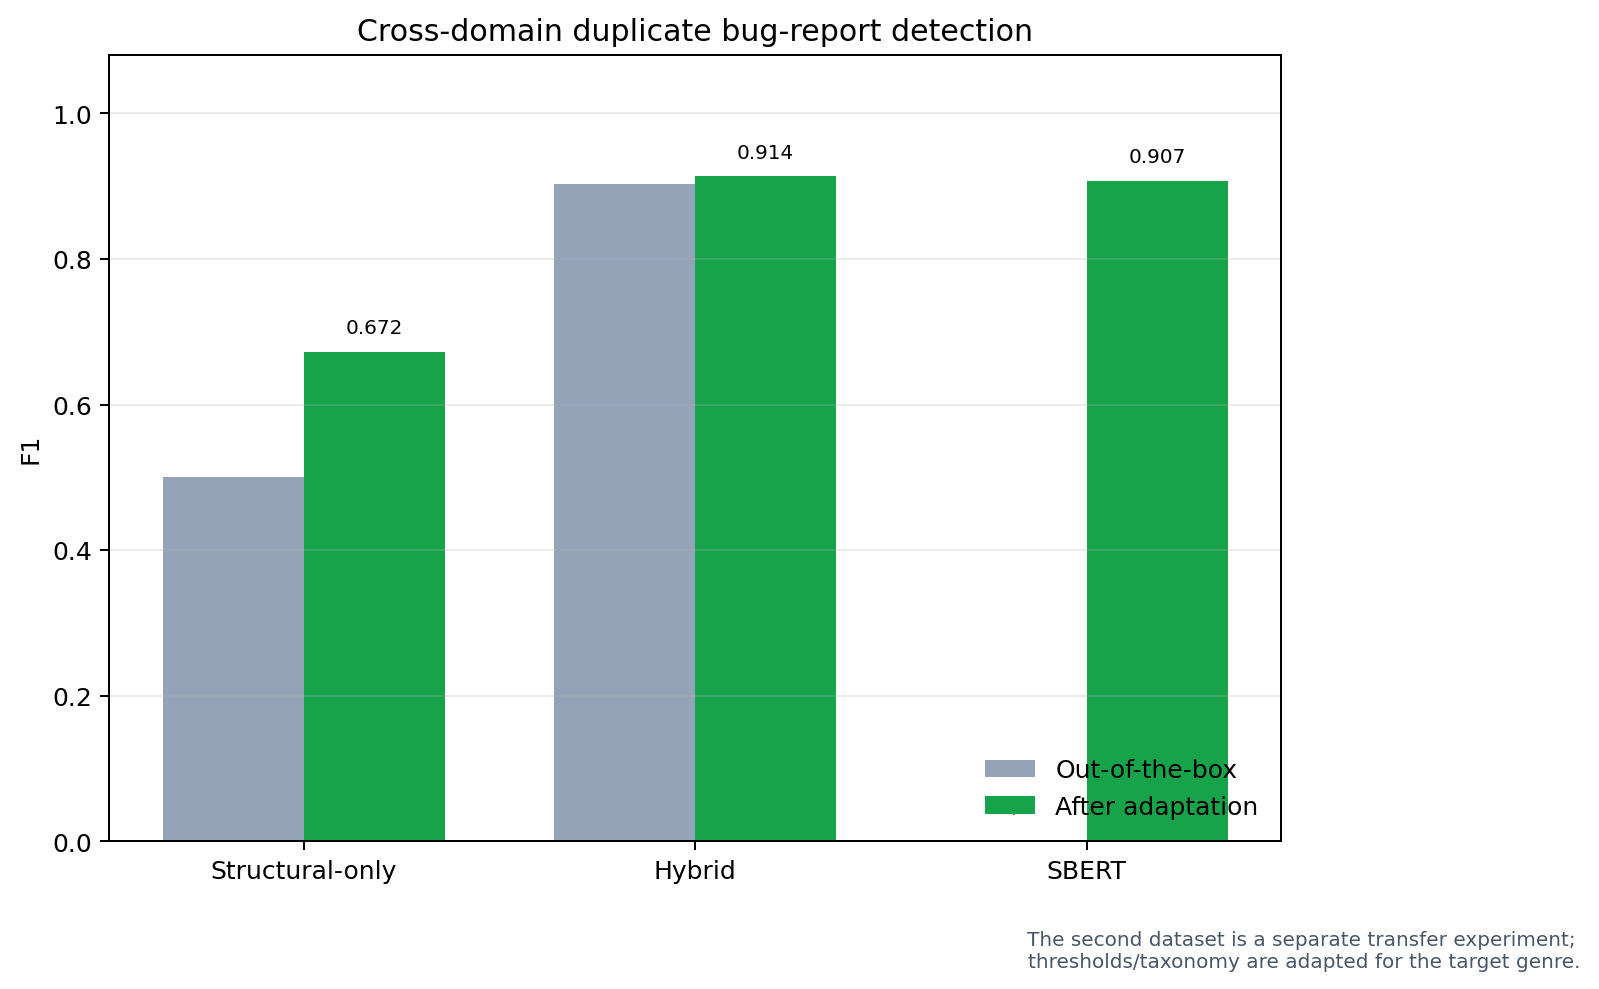
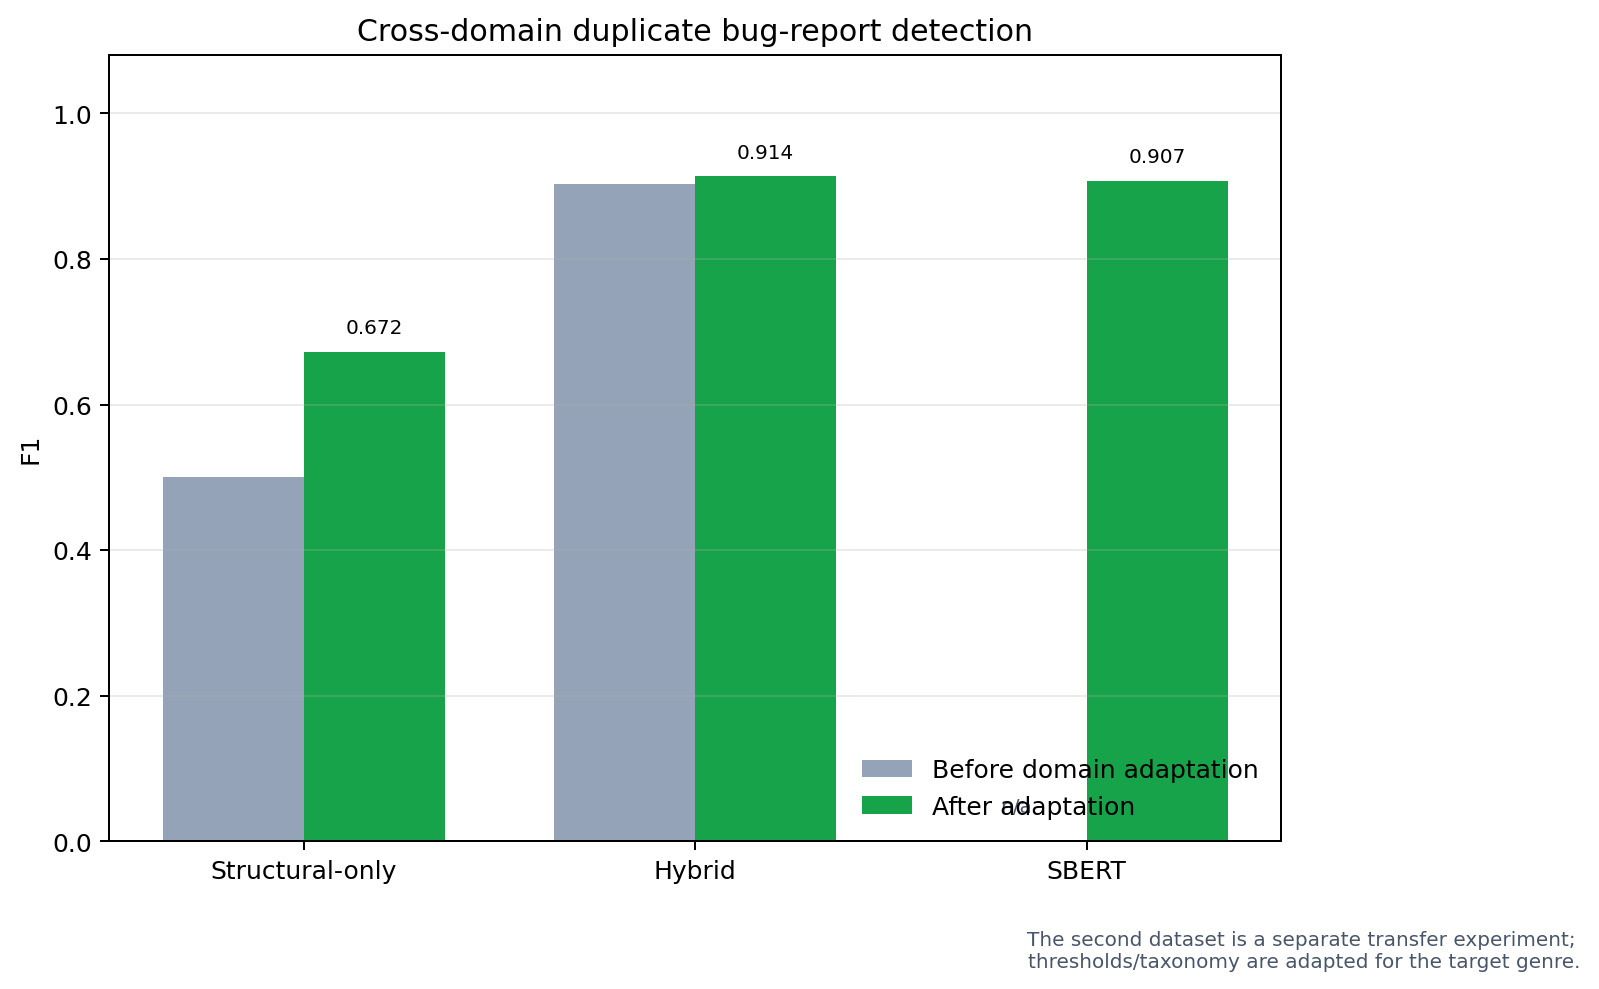
Clarify domain adaptation labels

Changed region(s): [[0.521, 0.7583, 0.7967, 0.8493]]

diff --git a/review-site/index.html b/review-site/index.html
@@ -65,7 +65,7 @@
     <section><div class="lang-en"><h2>Document-disjoint robustness audit</h2><p>A stricter GroupKFold audit prevents the same document identity from appearing in both training and test groups. SW-BTED obtains pooled F1 0.9157 (38 TP, 7 FP, 93 TN, 0 FN). This is a supplemental generalization check, not a replacement for the primary protocol.</p></div><div class="lang-vi"><h2>Document-disjoint robustness audit</h2><p>Audit GroupKFold nghiêm ngặt hơn, không cho cùng một document xuất hiện ở cả train và test. SW-BTED đạt pooled F1 0.9157 (38 TP, 7 FP, 93 TN, 0 FN). Đây là kiểm tra bổ sung về khả năng tổng quát hóa, không thay thế protocol chính.</p></div></section>
 
     <section><figure class="figure"><img src="assets/figure_6_document_disjoint_robustness.png" alt="Document-disjoint robustness comparison"><figcaption>Document-disjoint robustness / Robustness khi tách document</figcaption></figure></section>
-    <section id="cross-domain"><div class="lang-en"><h2>Cross-domain evaluation</h2><p>The second dataset evaluates duplicate bug-report detection. This is a separate transfer experiment, not part of the primary 138-pair benchmark. Structural-only SW-BTED improves from F1 0.50 out of the box to 0.6725 after hyperparameter adaptation. Hybrid improves from 0.9026 to 0.9141, compared with 0.9074 for the SBERT reference (statistical tie).</p><div class="note">The algorithmic framework is retained, while the target genre requires a different taxonomy and adapted parameters.</div></div><div class="lang-vi"><h2>Đánh giá liên miền</h2><p>Dataset thứ hai đánh giá bài toán phát hiện bug report trùng lặp. Đây là thí nghiệm chuyển sang domain khác, không phải một phần của benchmark chính 138 cặp. Structural-only SW-BTED tăng từ F1 0.50 khi chưa điều chỉnh lên 0.6725 sau khi adaptation tham số. Hybrid tăng từ 0.9026 lên 0.9141, so với 0.9074 của SBERT tham chiếu (không khác biệt có ý nghĩa thống kê).</p><div class="note">Framework thuật toán được giữ nguyên; tuy nhiên genre mới cần taxonomy riêng và điều chỉnh tham số.</div></div></section>
+    <section id="cross-domain"><div class="lang-en"><h2>Cross-domain evaluation</h2><p>The second dataset evaluates duplicate bug-report detection. This is a separate transfer experiment, not part of the primary 138-pair benchmark. Structural-only SW-BTED improves from F1 0.50 before domain adaptation to 0.6725 after adaptation. Hybrid improves from 0.9026 to 0.9141, compared with 0.9074 for the SBERT reference (statistical tie).</p><div class="note">The algorithmic framework is retained, while the target genre requires a different taxonomy and adapted parameters.</div></div><div class="lang-vi"><h2>Đánh giá liên miền</h2><p>Dataset thứ hai đánh giá bài toán phát hiện bug report trùng lặp. Đây là thí nghiệm chuyển sang domain khác, không phải một phần của benchmark chính 138 cặp. Structural-only SW-BTED tăng từ F1 0.50 trước khi thích nghi domain lên 0.6725 sau adaptation tham số. Hybrid tăng từ 0.9026 lên 0.9141, so với 0.9074 của SBERT tham chiếu (không khác biệt có ý nghĩa thống kê).</p><div class="note">Framework thuật toán được giữ nguyên; tuy nhiên genre mới cần taxonomy riêng và điều chỉnh tham số.</div></div></section>
     <section><figure class="figure"><img src="assets/figure_7_cross_domain_evaluation.png" alt="Cross-domain evaluation"><figcaption>Cross-domain duplicate bug-report evaluation / Đánh giá liên miền trên bug report</figcaption></figure></section>
     <section id="limits"><div class="lang-en"><h2>Limitations</h2><ul><li>The primary dataset is modest and comes from one capstone-document setting.</li><li>The 20-pair perturbation benchmark is constructed and does not represent all real-world errors.</li><li>Each new document genre needs a grounded taxonomy.</li><li>Cross-domain transfer currently requires parameter adaptation.</li><li>Runtime excludes embedding inference and is not end-to-end service latency.</li><li>A third genre has not yet been evaluated.</li></ul></div><div class="lang-vi"><h2>Hạn chế</h2><ul><li>Dataset chính còn nhỏ và chỉ đến từ một bối cảnh capstone.</li><li>Benchmark perturbation 20 cặp là dữ liệu constructed, chưa đại diện cho mọi lỗi thực tế.</li><li>Mỗi genre tài liệu mới cần taxonomy phù hợp.</li><li>Chuyển domain hiện vẫn cần điều chỉnh tham số.</li><li>Runtime chưa bao gồm embedding inference và không phải latency end-to-end.</li><li>Chưa đánh giá trên genre thứ ba.</li></ul></div></section>
 

diff --git a/experiments/generate_review_audit_figures.py b/experiments/generate_review_audit_figures.py
@@ -46,7 +46,7 @@ def cross_domain() -> None:
     x = np.arange(len(methods))
     width = 0.36
     fig, ax = plt.subplots(figsize=(9, 5.6))
-    ax.bar(x - width / 2, out_of_box, width, label="Out-of-the-box", color="#94a3b8")
+    ax.bar(x - width / 2, out_of_box, width, label="Before domain adaptation", color="#94a3b8")
     ax.bar(x + width / 2, adapted, width, label="After adaptation", color="#16a34a")
     ax.set_ylim(0, 1.08)
     ax.set_ylabel("F1")

diff --git a/reports/SW_BTED_PROJECT_REVIEW_BRIEF.md b/reports/SW_BTED_PROJECT_REVIEW_BRIEF.md
@@ -179,7 +179,7 @@ is a stricter generalization check and does not replace the primary protocol.
 
 The second dataset evaluates duplicate bug-report detection and is reported as
 a separate transfer experiment, not as part of the primary 138-pair benchmark.
-Structural-only SW-BTED improves from F1 `0.50` out of the box to `0.6725`
+Structural-only SW-BTED improves from F1 `0.50` before domain adaptation to `0.6725`
 after hyperparameter adaptation. Hybrid improves from `0.9026` to `0.9141`,
 compared with `0.9074` for the SBERT reference (statistical tie). The result
 supports transferability of the framework, while also showing that a new genre
